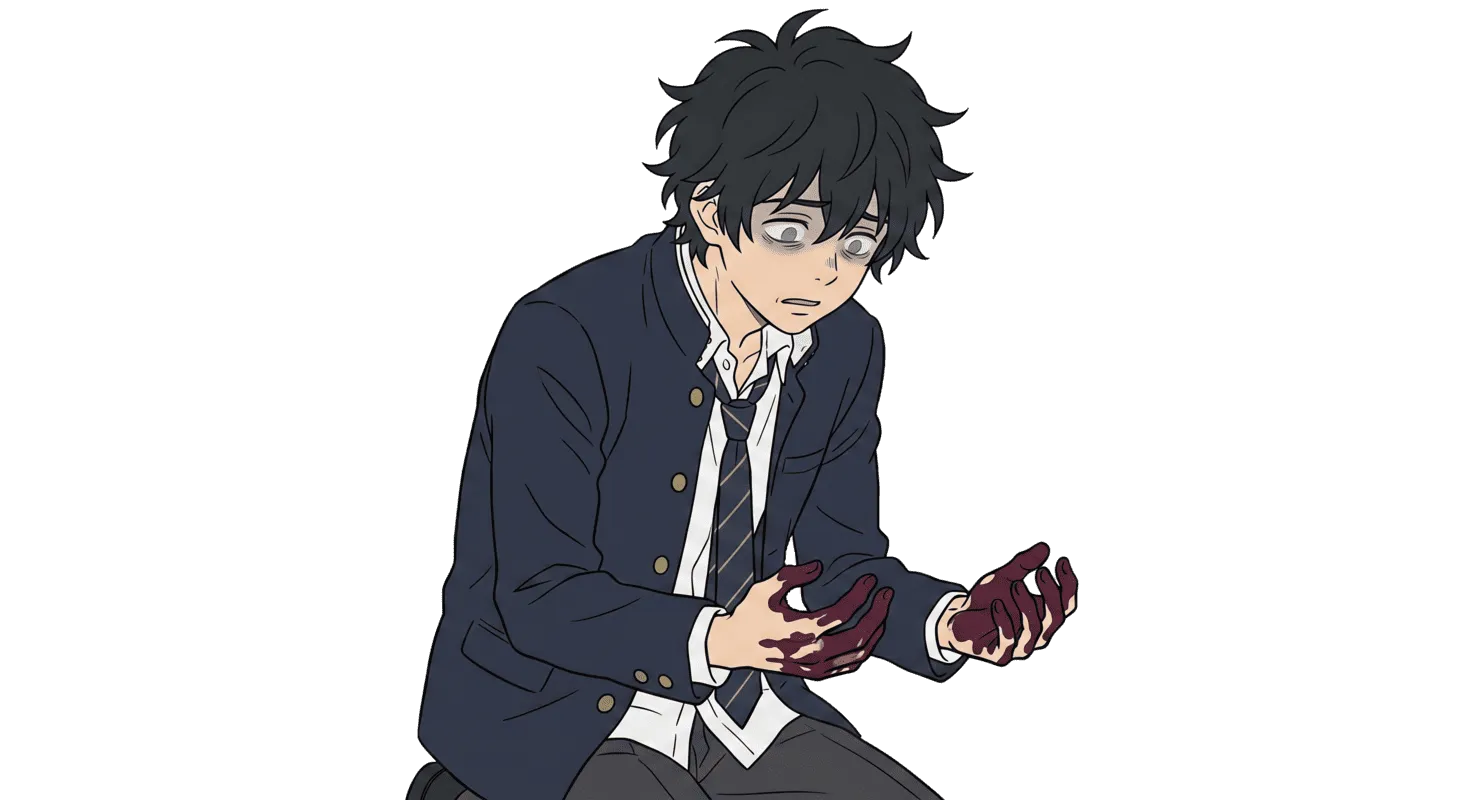
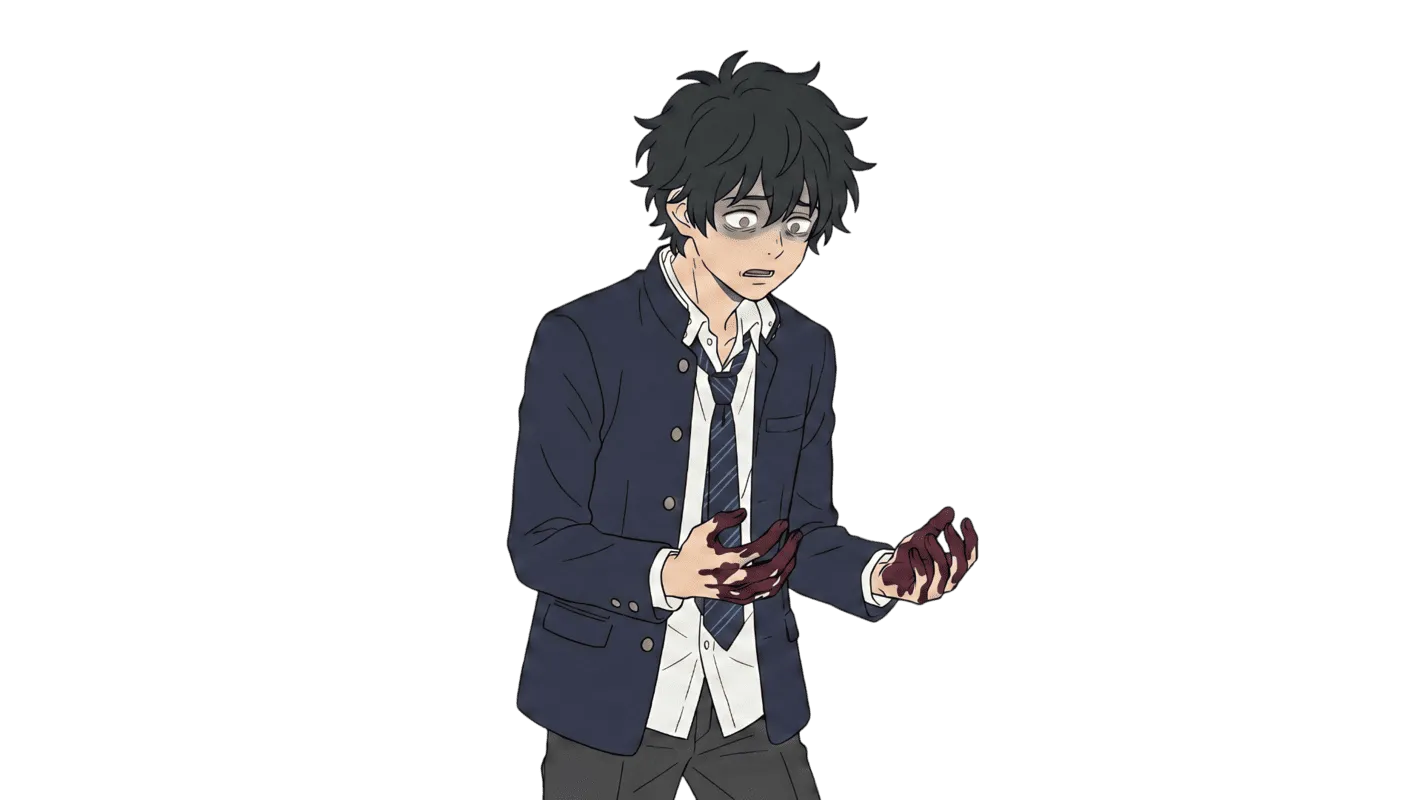
chapter 4 added

Changed region(s): [[0.2785, 0.0, 0.7426, 1.0]]

diff --git a/js/chapters/chapter4.js b/js/chapters/chapter4.js
@@ -469,7 +469,7 @@ var chapter4 = [
     {
         char: 'assets/chapter4/characters/sho_taller_guy/pale_seated_traumatized.webp',
         speaker: 'Ren (Internal)',
-        text: 'Sho doesn\'t even look like the same person. He sinks down, folding his legs and resting his hands on his knees. He\'s white as a sheet, just staring blankly at the pavement, unable to process what we just saw.'
+        text: 'Sho sinks down, folding his legs and resting his hands on his knees. That brief flash of relief he had in the lobby is entirely gone, replaced by a pale, hollow shock. He stares at the pavement, broken by what we just walked past.'
     },
     {
         char: 'assets/chapter4/characters/kaito_best_friend/staring_at_hands.webp',
@@ -477,6 +477,21 @@ var chapter4 = [
         text: 'And Kaito... Kaito just stands there, staring blankly at the blood covering his own hands.'
     },
     {
+        char: '',
+        speaker: 'Ren (Internal)',
+        text: 'We made it out. The sun is shining. We are still breathing.'
+    },
+    {
+        speaker: 'Ren (Internal)',
+        text: 'But as the dead silence of the street presses in on us, the horrifying truth finally settles over me.'
+    },
+    {
+        vfx: 'vfx-blackout',
+        speaker: 'Ren (Internal)',
+        text: 'The world we knew this morning is gone. And whoever we used to be... they died inside those walls too.'
+    },
+    {
+        bgm: '',
         speaker: '',
         text: '[CHAPTER 4 END]'
     }
